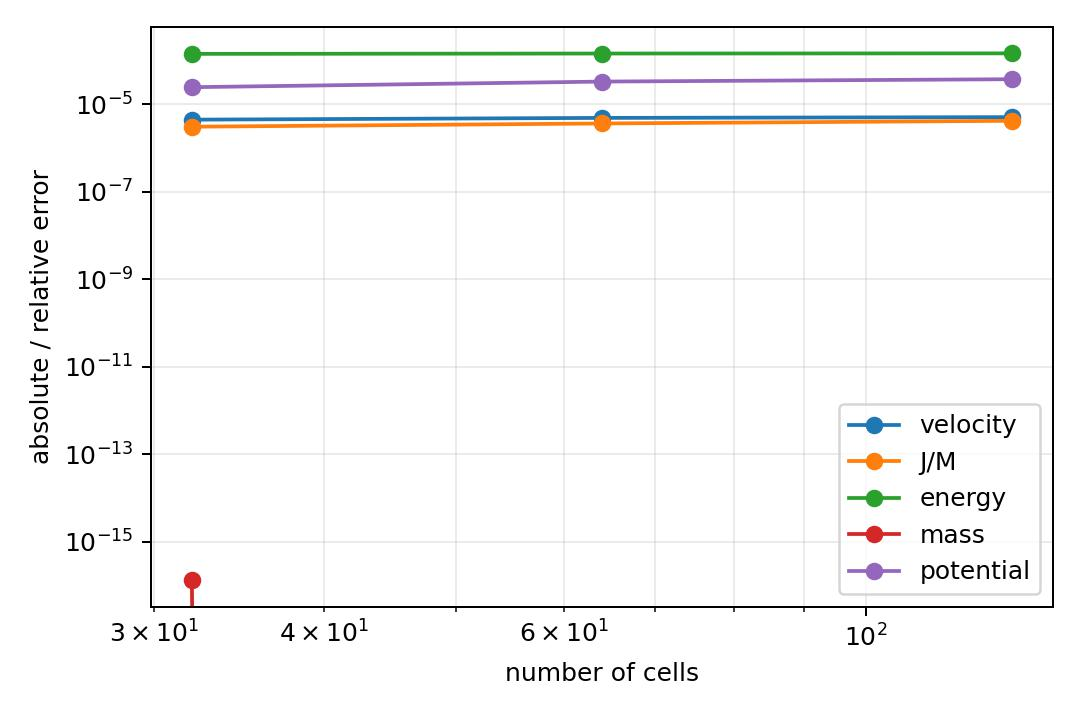
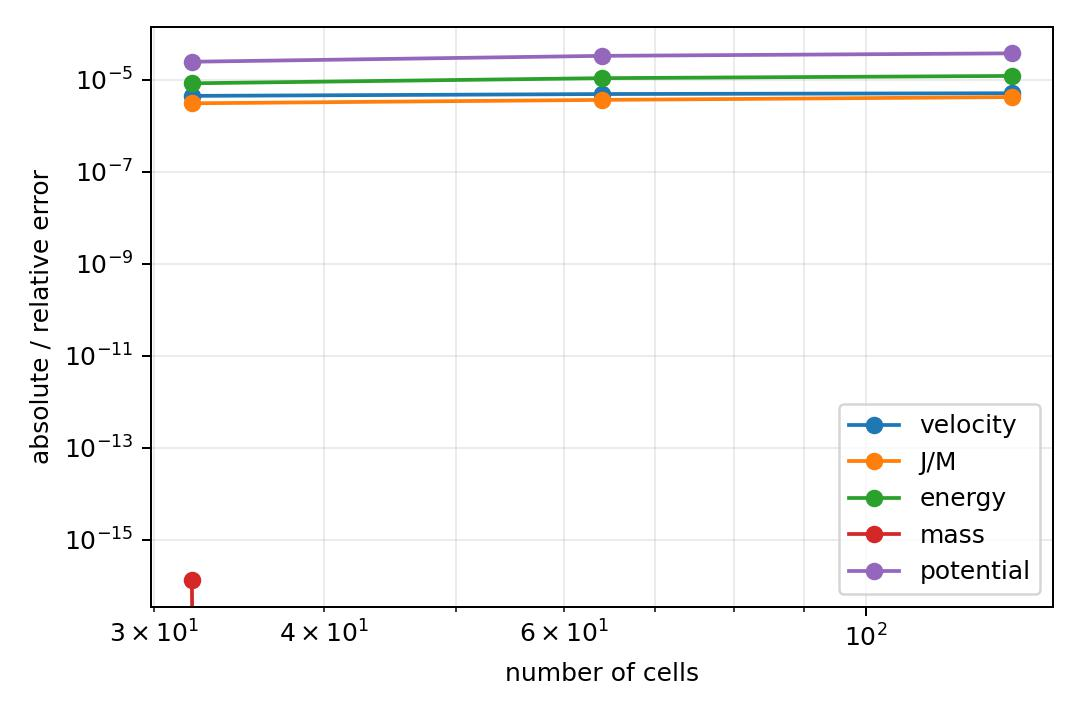
finally, the issue is doubling counting the centrifugal_work

diff --git a/example/GasCentrifugalHydroExpansion1D/time_convergence.py b/example/GasCentrifugalHydroExpansion1D/time_convergence.py
@@ -1,0 +1,94 @@
+"""Timestep convergence study for the coupled centrifugal source update."""
+
+import sys
+from pathlib import Path
+
+ROOT = Path(__file__).resolve().parent
+if str(ROOT) not in sys.path:
+    sys.path.insert(0, str(ROOT))
+
+import matplotlib
+matplotlib.use('Agg')
+import matplotlib.pyplot as plt
+import numpy as np
+from scipy.integrate import solve_ivp
+
+from gas_centrifugal_hydro_expansion1d import (
+    CONFIG, run_simulation, spherical_centers,
+)
+from radhydropy.example_config import load_example_parameters
+
+
+def total_energy_error(runparams, icparams):
+    (sim, saved_mesh, saved, _initial_mass, _initial_energy,
+     _initial_radius, _gravity_work, _potential_change,
+     _potential_flux) = run_simulation(runparams, icparams)
+    active = slice(sim.par.noghost, sim.par.noghost + sim.par.nogrid)
+    radius = np.asarray(sim.mesh.coordinate[active], dtype=float)
+    central_mass = float(icparams['central_mass'])
+    rotation_factor = float(icparams['rotation_factor'])
+    shell_j = rotation_factor * np.sqrt(central_mass * radius)
+    final_time = float(sim.fluid.time)
+
+    def rhs(_time, state, specific_j):
+        position, velocity = state
+        position = max(position, np.finfo(float).tiny)
+        return velocity, -central_mass / position**2 + specific_j**2 / position**3
+
+    shell_final = np.empty((2, len(radius)))
+    for index, (position, specific_j) in enumerate(zip(radius, shell_j)):
+        solution = solve_ivp(
+            lambda time, state: rhs(time, state, specific_j),
+            (0.0, final_time), (position, 0.0),
+            rtol=1.0e-10, atol=1.0e-12,
+        )
+        shell_final[:, index] = solution.y[:, -1]
+
+    saved_radius = spherical_centers(np.asarray(saved_mesh.boundary, dtype=float))[active]
+    order = np.argsort(shell_final[0])
+    shell_specific_energy = (
+        0.5 * shell_final[1]**2
+        + 0.5 * shell_j**2 / shell_final[0]**2
+        - central_mass / shell_final[0]
+    )
+    mapped_energy = np.interp(
+        saved_radius, shell_final[0, order], shell_specific_energy[order]
+    )
+    saved_mass = np.asarray(saved.Mass[active], dtype=float)
+    saved_total = np.sum(
+        np.asarray(saved.Energy[active], dtype=float)
+        + np.asarray(saved.GravitationalPotentialEnergy[active], dtype=float)
+    )
+    ode_total = np.sum(saved_mass * mapped_energy)
+    return abs(saved_total - ode_total) / max(abs(ode_total), 1.0e-12)
+
+
+def main():
+    runparams, icparams = load_example_parameters(CONFIG)
+    # Keep the mesh fixed so this isolates source time integration rather than
+    # mixing temporal and spatial convergence errors.
+    runparams['nogrid'] = 128
+    dtmax_values = np.asarray((1.0e-3, 5.0e-4, 2.5e-4, 1.25e-4), dtype=float)
+    errors = []
+    for dtmax in dtmax_values:
+        case = dict(runparams)
+        case['dtmax'] = float(dtmax)
+        error = total_energy_error(case, icparams)
+        errors.append(error)
+        print('dtmax %.6g: total-energy error %.8g' % (dtmax, error))
+
+    errors = np.asarray(errors)
+    output = ROOT / 'outputs' / 'GasCentrifugalHydroExpansion1D_time_convergence.jpg'
+    fig, axis = plt.subplots(figsize=(6, 4))
+    axis.loglog(dtmax_values, errors, 'o-')
+    axis.set_xlabel('maximum timestep')
+    axis.set_ylabel('relative total-energy error')
+    axis.grid(alpha=0.25, which='both')
+    fig.tight_layout()
+    fig.savefig(output, dpi=180)
+    plt.close(fig)
+    print('time-convergence figure = %s' % output)
+
+
+if __name__ == '__main__':
+    main()

diff --git a/radhydropy/solver.py b/radhydropy/solver.py
@@ -2297,13 +2297,11 @@ class Solver():
             )
             rotational_acceleration[~valid_radius] = 0.0
 
-        # Apply gravity and centrifugal momentum sources as sequential coupled
-        # source updates. Each work term uses the midpoint momentum for that
-        # source, so the energy update is consistent with the momentum update.
-        # Centrifugal work is the radial part of the exchange with the
-        # rotational reservoir; E_rot is reconstructed from J/M and radius in
-        # SetPrimitive, while advective/geometric exchange is handled by the
-        # rotational-energy flux.
+        # Apply gravity and centrifugal momentum sources sequentially. Gravity
+        # work updates the gas energy, while the centrifugal source does not:
+        # total Energy already contains E_rot and its face flux is transported
+        # separately. Adding centrifugal work here would count the exchange
+        # with the rotational reservoir twice.
         dt_value = float(np.asarray(dt, dtype=float))
         gravity_momentum = momentum + mass * gravity_acceleration * dt_value
         new_momentum = gravity_momentum + mass * rotational_acceleration * dt_value
@@ -2315,7 +2313,7 @@ class Solver():
         ) * rotational_acceleration * dt_value
         new_energy = (
             np.asarray(fluid.Energy, dtype=float)
-            + gravity_work + centrifugal_work
+            + gravity_work
         )
         fluid.Mom[...] = new_momentum
         fluid.Energy[...] = new_energy
@@ -2324,8 +2322,8 @@ class Solver():
             and hasattr(fluid, 'GravitationalPotentialEnergy')
         ):
             # The explicit potential-energy reservoir receives the opposite
-            # of the gravity work.  Centrifugal work is an exchange with the
-            # rotational reservoir, not with the fixed gravitational field.
+            # of the gravity work. Centrifugal work is retained as a diagnostic
+            # only because E_rot is already part of total Energy.
             fluid.GravitationalPotentialEnergy[...] -= gravity_work
         self.last_gravity_work = float(
             np.sum(gravity_work[interior])

diff --git a/tests/test_solver.py b/tests/test_solver.py
@@ -472,7 +472,7 @@ class Testing(unittest.TestCase):
         ) * expected_acceleration * 1.0e-3
         np.testing.assert_allclose(
             np.asarray(fluid.Energy, dtype=float),
-            old_energy + centrifugal_work,
+            old_energy,
         )
         np.testing.assert_allclose(
             solver.last_centrifugal_work,

diff --git a/example/GasCentrifugalHydroExpansion1D/README.rst b/example/GasCentrifugalHydroExpansion1D/README.rst
@@ -1,8 +1,9 @@
 Gas Centrifugal Hydro Expansion Benchmark
 =========================================
 
-This benchmark tests centrifugal work together with spherical Eulerian hydro
-advection.  The initial gas sphere uses the low-temperature isothermal closure
+This benchmark tests centrifugal acceleration and rotational-energy transport
+together with spherical Eulerian hydro advection.  The initial gas sphere uses
+the low-temperature isothermal closure
 to remain pressureless numerically, and rotates above circular support,
 
 .. math::
@@ -34,3 +35,8 @@ Run with::
 Run the 32/64/128-cell convergence study with::
 
    python convergence.py
+
+Run the fixed-resolution timestep study for the coupled centrifugal source
+update with::
+
+   python time_convergence.py
